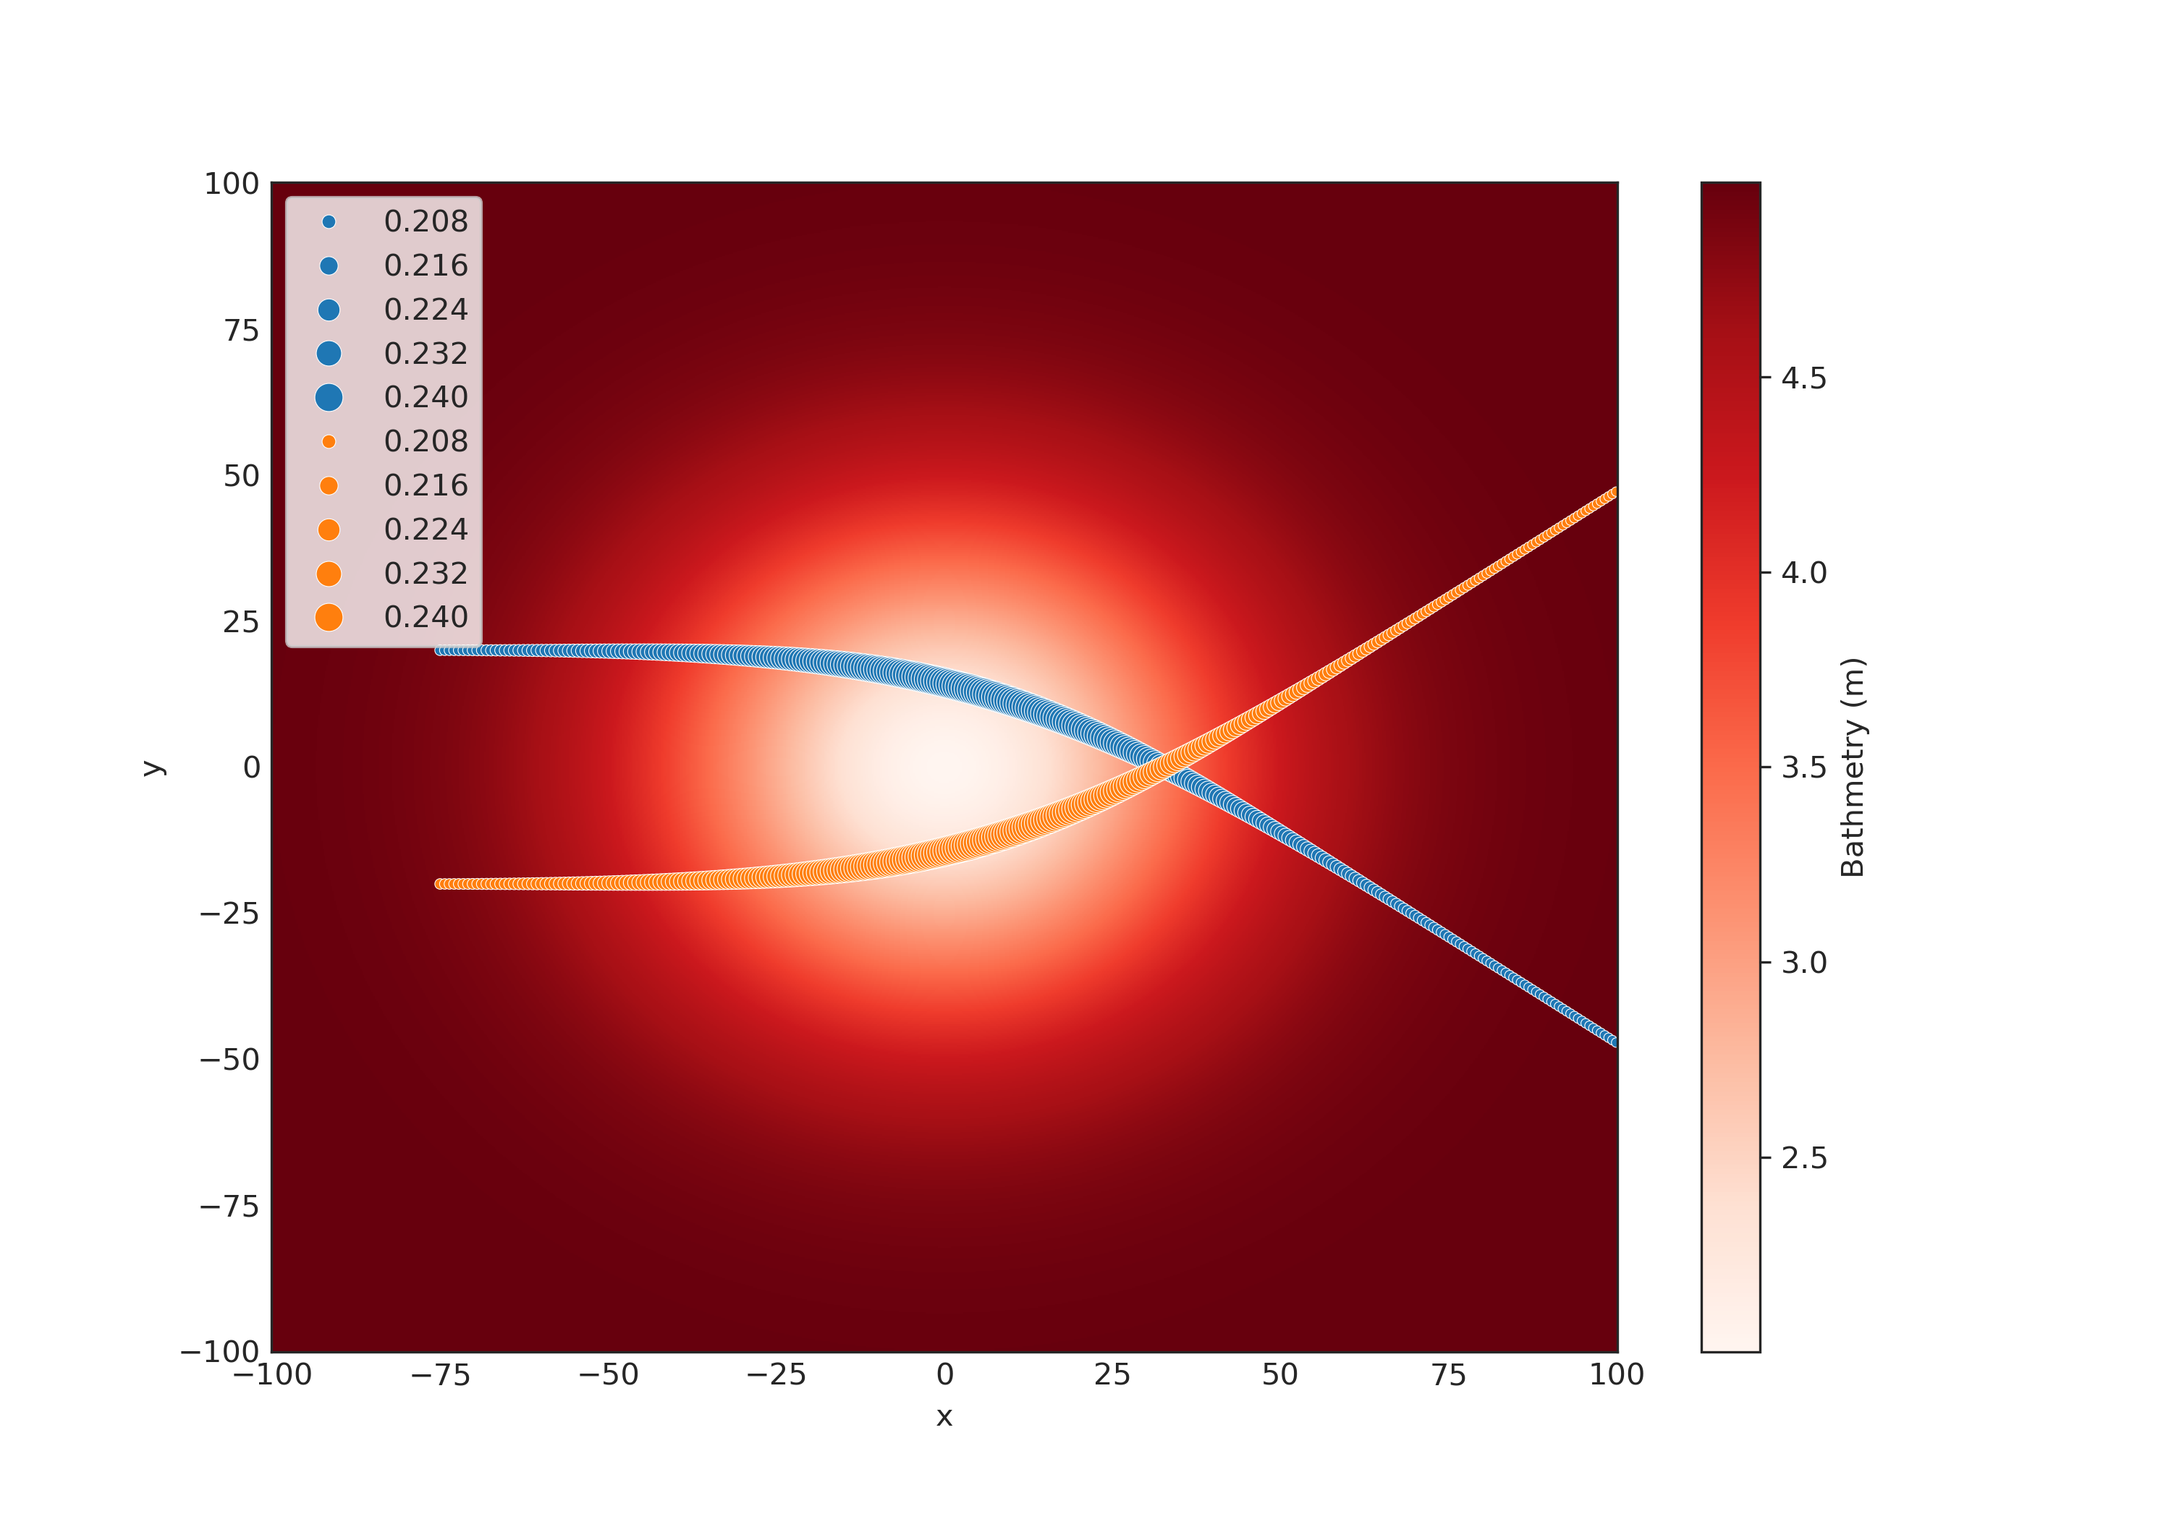
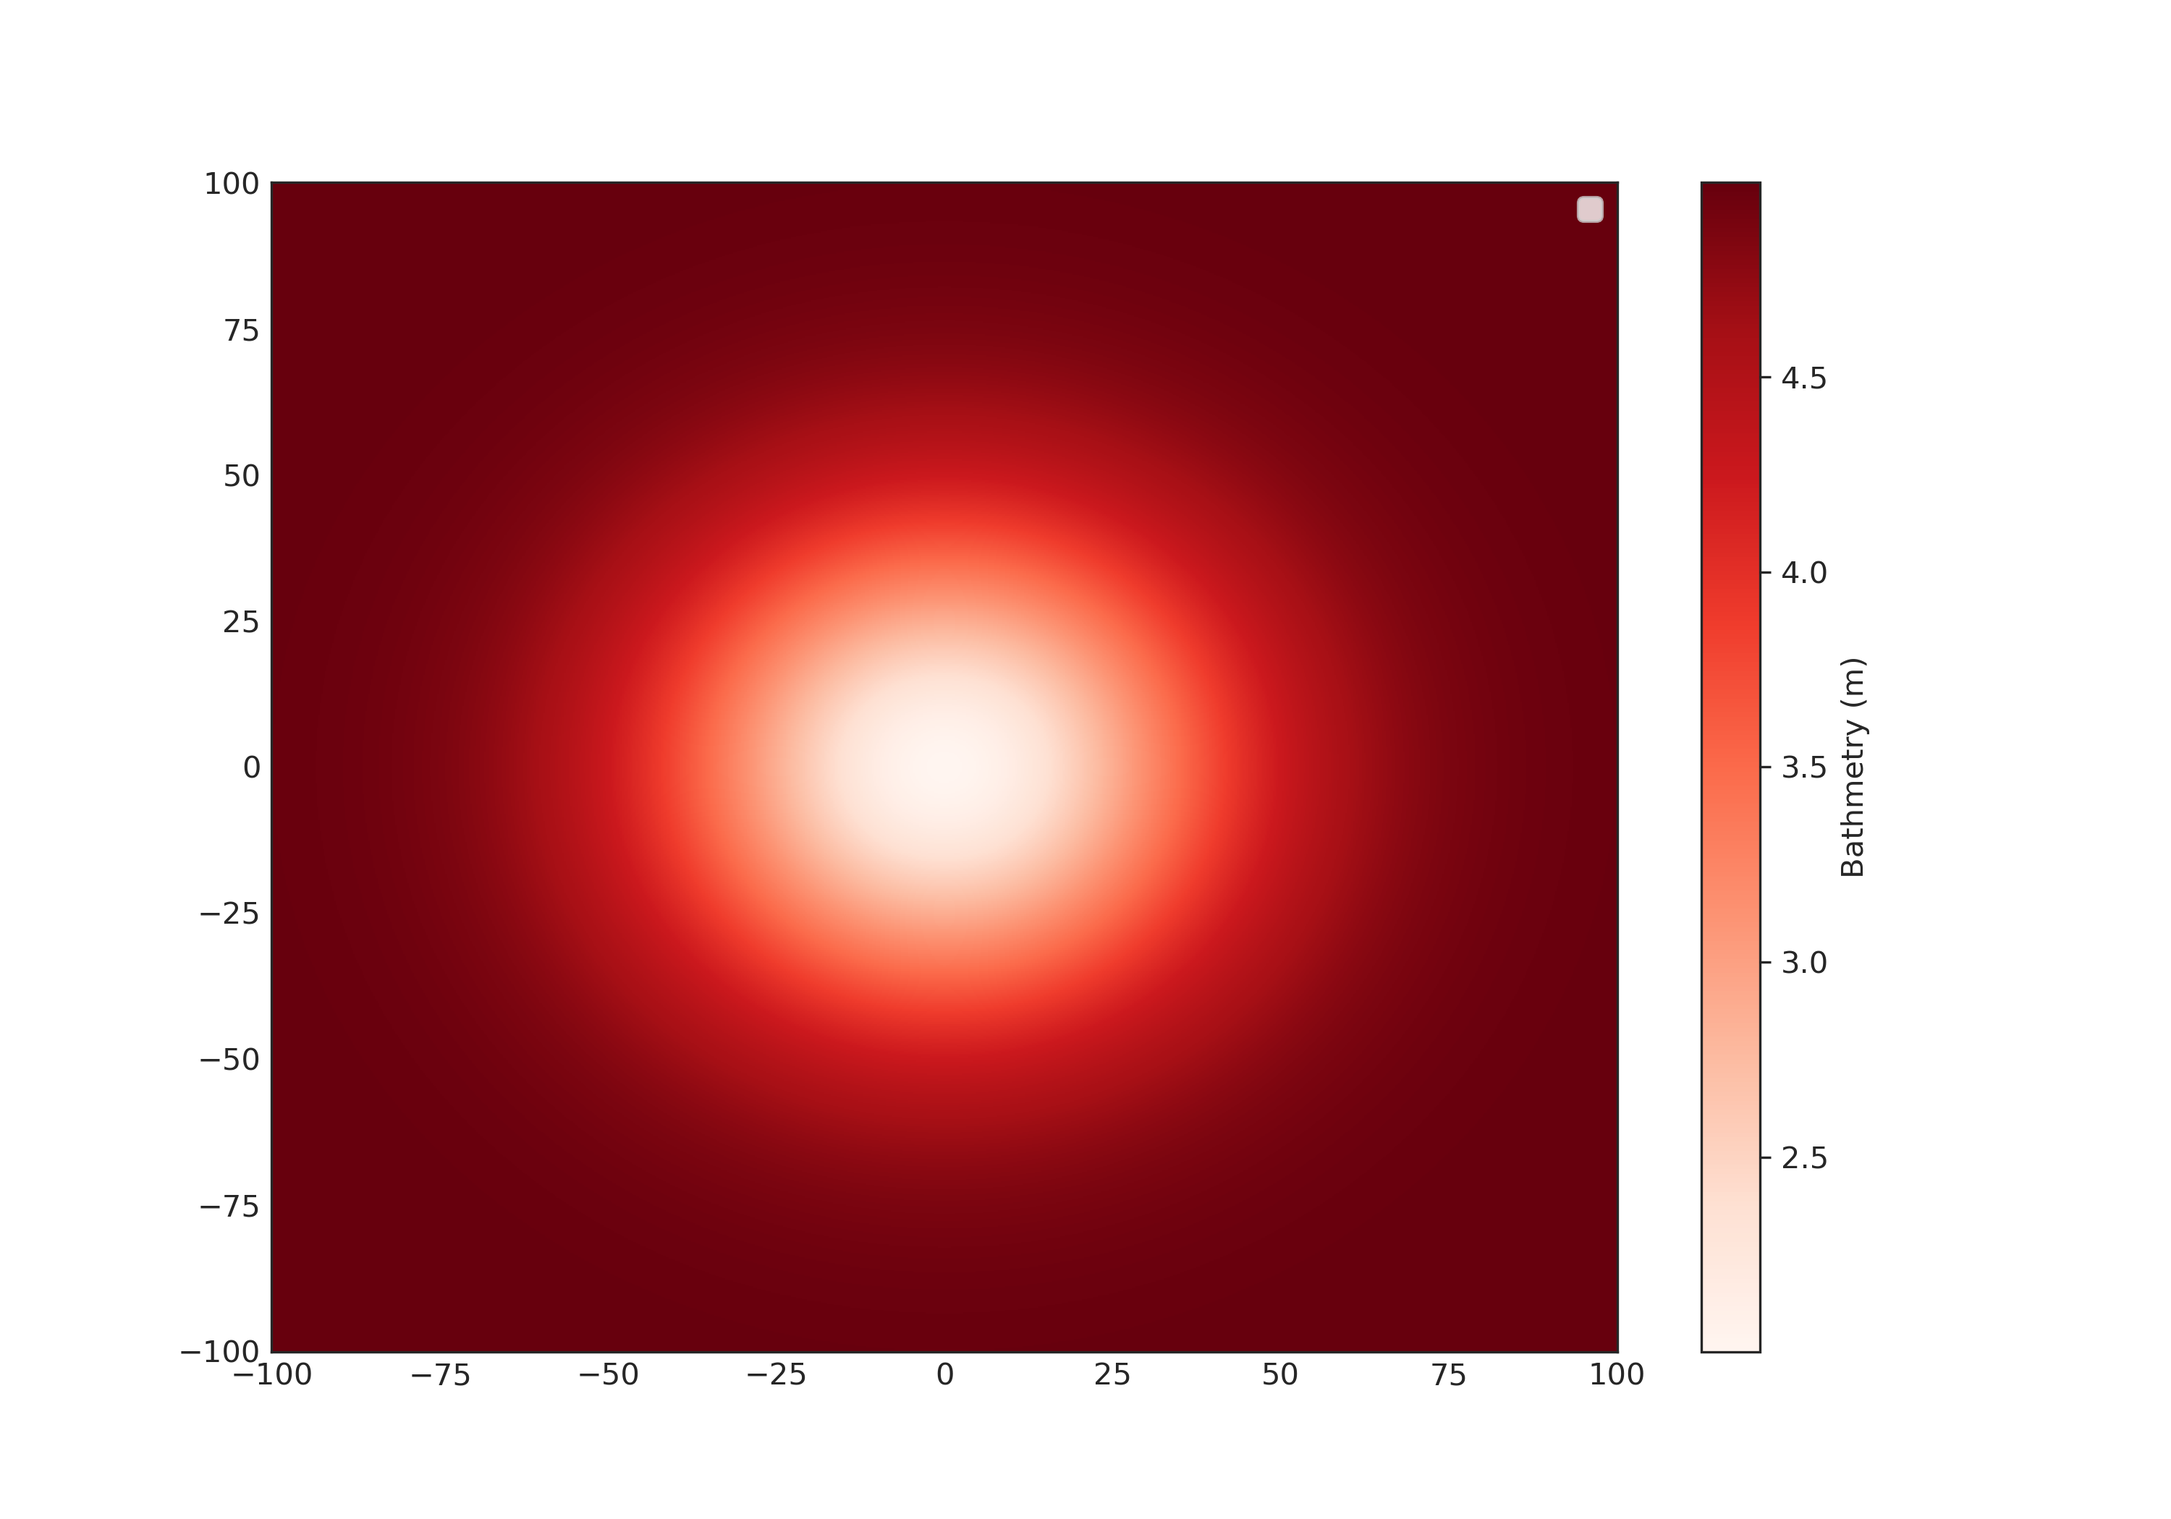
used a step method in the solve loop which reduces a lot of redundancy in the code. Tested that it works alright.

diff --git a/CartWaveSol.py b/CartWaveSol.py
@@ -18,7 +18,8 @@ class CartWaveSol:
                  E0, 
                  T, 
                  dt,
-                 dispersion=None
+                 dispersion=None,
+                 method='euler'
                 ):
         
         '''
@@ -70,6 +71,16 @@ class CartWaveSol:
             self.dispersion = self.sigma_full
         else:
             print("Dispersion must be 'shallow' or 'full'.")
+        
+        if method == 'euler':
+            self.step = self.euler_step
+        elif method == 'symplectic_euler':
+            self.step = self.symplectic_euler_step
+        elif method == 'adams-bashforth':
+            self.step = self.adams_bashforth_step
+        else:
+            raise UserWarning("The method must be one of 'euler', 'symplectic_euler', or 'adams-bashforth'.")
+
         # derived quantities
         self.ts = np.arange(0, T, dt)
         self.dx = x[1] - x[0]
@@ -136,91 +147,182 @@ class CartWaveSol:
         self.amps[0] =  self.a0
 
         for i in range(1, len(self.ks)):
-
-
-            # adding to dataframe
-            cur_row = {
-                'time': [self.ts[i-1]],
-                'x': [self.ray_xs[i-1]],
-                'y': [self.ray_ys[i-1]],
-                'k': [self.ks[i-1]],
-                'l': [self.ls[i-1]],
-                'E': [self.energies[i-1]],
-                'A': [self.amps[i-1]]
-                }
-            df_row = pd.DataFrame(cur_row)
-            self.df = pd.concat([self.df, df_row], axis=0, ignore_index=True)
-
-            k = self.ks[i-1]
-            l = self.ls[i-1]
+            # Check if wavefront is out of or close to the domain
             x = self.ray_xs[i-1]
             y = self.ray_ys[i-1]
-            E = self.energies[i-1]
-
-            dk = 1e-6 * k if k != 0 else 1e-6
-            dl = 1e-6 * l if l != 0 else 1e-6
-
-
-            # calculate depth based on previous coordinates
-            try:
-                d = self.bathymetry_interpolate((x, y))
-            except:
-                warn("The wavefront may be out of the domain.")
-                return None
+            if self.bounds_check(x, y):
+                break
             
-            # evolve the ray position
-            xnow = x + self.dt * self.cg(k, l, d)[0]
-            ynow = y + self.dt * self.cg(k, l, d)[1]
-
+            # calculate bathymetry at current position
+            d = self.bathymetry_interpolate((x, y))
+            
+            # perform the integration step
+            # if step does not work, break out of loop
+            # typically happens in symplectic method when wavefront
+            # runs out of the domain
+            try:
+                xnow, ynow, know, lnow, Enow = self.step(i)
+            except:
+                break
+            
+            # record current step output
             self.ray_xs[i] = xnow
             self.ray_ys[i] = ynow
-
-            # if we want to use updated positions to update wave vector
-            if symp:
-                x = xnow
-                y = ynow
-
-            # calculate the horizontal derivative of the dispersion relation
-            try:
-                sigma_x = (self.dispersion(k, l, self.bathymetry_interpolate((x + self.dx, y))) - self.dispersion(k, l, self.bathymetry_interpolate((x - self.dx, y)))) / (2 * self.dx)
-                sigma_y = (self.dispersion(k, l, self.bathymetry_interpolate((x, y + self.dy))) - self.dispersion(k, l, self.bathymetry_interpolate((x, y - self.dy)))) / (2 * self.dy)
-            
-            except:
-                warn("The wavefront may be out of the domain.")
-                return None
-
-            # evolve the wave numbers
-            know = k - sigma_x * self.dt
-            lnow = l - sigma_y * self.dt
             self.ks[i] = know
             self.ls[i] = lnow
-
-            # if we want to use updated wave vector and position to update the energy
-            if symp:
-                k = know
-                l = lnow
-            # Recalculate the bathymetry for the energy/amplitude update
-            try:
-                dnow = self.bathymetry_interpolate((x, y))
-            except:
-                warn("The wavefront may be out of the domain.")
-                return None
+            self.energies[i] = Enow
+            amp_now = np.sqrt(2 * Enow) / (self.dispersion(know, lnow, d))
+            self.amps[i] = amp_now
+        
+        # collect everything in a dataframe at the end
+        # truncate dataframe to include points until break
+        self.df = pd.DataFrame({
+            'time': self.ts,
+            'x': self.ray_xs,
+            'y': self.ray_ys,
+            'k': self.ks,
+            'l': self.ls,
+            'E': self.energies,
+            'A': self.amps
+        }).iloc[:i-1] 
             
-            diff_x_cgx = (1 / (2 * self.dx)) * (
+        return None
+
+    def symplectic_euler_step(self, i):
+        '''
+        Performs one step of Euler's integration method
+        '''
+        x = self.ray_xs[i-1]
+        y = self.ray_ys[i-1]
+        k = self.ks[i-1]
+        l = self.ls[i-1]
+        E = self.energies[i-1]
+
+        # ray equation
+        # dx/dt = cg
+        d = self.bathymetry_interpolate((x, y))
+        x = x + self.dt * self.cg(k, l, d)[0]
+        y = y + self.dt * self.cg(k, l, d)[1]
+
+        # Check if wavefront is out of or close to the domain
+        if self.bounds_check(x, y):
+            return None
+
+        # wavenumber equation
+        # dk/dt = -grad(sigma)
+        sigma_x = (self.dispersion(k, l, self.bathymetry_interpolate((x + self.dx, y))) - self.dispersion(k, l, self.bathymetry_interpolate((x - self.dx, y)))) / (2 * self.dx)
+        sigma_y = (self.dispersion(k, l, self.bathymetry_interpolate((x, y + self.dy))) - self.dispersion(k, l, self.bathymetry_interpolate((x, y - self.dy)))) / (2 * self.dy)
+        k = k - sigma_x * self.dt
+        l = l - sigma_y * self.dt
+
+        # energy equation
+        # dE/dt = -E div(cg)
+        diff_x_cgx = (1 / (2 * self.dx)) * (
                 self.cg(k, l, self.bathymetry_interpolate((x + self.dx, y)))[0] - 
                 self.cg(k, l, self.bathymetry_interpolate((x - self.dx, y)))[0]
                 )
-            diff_y_cgy = (1 / (2 * self.dy)) * (
-                self.cg(k, l, self.bathymetry_interpolate((x, y + self.dy)))[1] - 
-                self.cg(k, l, self.bathymetry_interpolate((x, y - self.dy)))[1]
-                )
-            E_now = E - self.dt * E * (diff_x_cgx + diff_y_cgy)
-            self.energies[i] = E_now
+        diff_y_cgy = (1 / (2 * self.dy)) * (
+            self.cg(k, l, self.bathymetry_interpolate((x, y + self.dy)))[1] - 
+            self.cg(k, l, self.bathymetry_interpolate((x, y - self.dy)))[1]
+            )
+        E = E - self.dt * E * (diff_x_cgx + diff_y_cgy)
 
-            amp_now = np.sqrt(2 * E_now) / (self.dispersion(know, lnow, dnow))
-            self.amps[i] = amp_now
-            
-        return None
+        return x, y, k, l, E
+
+    def euler_step(self, i):
+        '''
+        Performs one step of Euler's integration method
+        '''
+        x = self.ray_xs[i-1]
+        y = self.ray_ys[i-1]
+        k = self.ks[i-1]
+        l = self.ls[i-1]
+        E = self.energies[i-1]
+
+        # ray equation
+        # dx/dt = cg
+        d = self.bathymetry_interpolate((x, y))
+        xnew = x + self.dt * self.cg(k, l, d)[0]
+        ynew = y + self.dt * self.cg(k, l, d)[1]
+
+        # wavenumber equation
+        # dk/dt = -grad(sigma)
+        sigma_x = (self.dispersion(k, l, self.bathymetry_interpolate((x + self.dx, y))) - self.dispersion(k, l, self.bathymetry_interpolate((x - self.dx, y)))) / (2 * self.dx)
+        sigma_y = (self.dispersion(k, l, self.bathymetry_interpolate((x, y + self.dy))) - self.dispersion(k, l, self.bathymetry_interpolate((x, y - self.dy)))) / (2 * self.dy)
+        knew = k - sigma_x * self.dt
+        lnew = l - sigma_y * self.dt
+
+        # energy equation
+        # dE/dt = -E div(cg)
+        diff_x_cgx = (1 / (2 * self.dx)) * (
+                self.cg(k, l, self.bathymetry_interpolate((x + self.dx, y)))[0] - 
+                self.cg(k, l, self.bathymetry_interpolate((x - self.dx, y)))[0]
+                )
+        diff_y_cgy = (1 / (2 * self.dy)) * (
+            self.cg(k, l, self.bathymetry_interpolate((x, y + self.dy)))[1] - 
+            self.cg(k, l, self.bathymetry_interpolate((x, y - self.dy)))[1]
+            )
+        Enew = E - self.dt * E * (diff_x_cgx + diff_y_cgy)
+
+        return xnew, ynew, knew, lnew, Enew
+    
+    def adams_bashforth_step(self, i):
+        '''
+        Performs one step of Adams-Bashforth 2
+        '''
+        x = self.ray_xs[i-1]
+        y = self.ray_ys[i-1]
+        k = self.ks[i-1]
+        l = self.ls[i-1]
+        E = self.energies[i-1]
+
+        x_prev = self.ray_xs[i-2]
+        y_prev = self.ray_ys[i-2]
+        k_prev = self.ks[i-2]
+        l_prev = self.ls[i-2]
+        E_prev = self.energies[i-2]
+
+        # ray equation
+        # dx/dt = cg
+        d = self.bathymetry_interpolate((x, y))
+        d_prev = self.bathymetry_interpolate((x_prev, y_prev))
+        xnew = x + (self.dt/2) * (3 * self.cg(k, l, d)[0] - self.cg(k_prev, l_prev, d_prev)[0])
+        ynew = y + (self.dt/2) * (3 * self.cg(k, l, d)[1] - self.cg(k_prev, l_prev, d_prev)[1])
+
+        # wavenumber equation
+        # dk/dt = -grad(sigma)
+        sigma_x = (self.dispersion(k, l, self.bathymetry_interpolate((x + self.dx, y))) - self.dispersion(k, l, self.bathymetry_interpolate((x - self.dx, y)))) / (2 * self.dx)
+        sigma_y = (self.dispersion(k, l, self.bathymetry_interpolate((x, y + self.dy))) - self.dispersion(k, l, self.bathymetry_interpolate((x, y - self.dy)))) / (2 * self.dy)
+        sigma_x_prev = (self.dispersion(k_prev, l_prev, self.bathymetry_interpolate((x_prev + self.dx, y_prev))) - self.dispersion(k_prev, l_prev, self.bathymetry_interpolate((x_prev - self.dx, y_prev)))) / (2 * self.dx)
+        sigma_y_prev = (self.dispersion(k_prev, l_prev, self.bathymetry_interpolate((x_prev, y_prev + self.dy))) - self.dispersion(k_prev, l_prev, self.bathymetry_interpolate((x_prev, y_prev - self.dy)))) / (2 * self.dy)
+        knew = k - (self.dt/2) * (3 * sigma_x  - sigma_x_prev)
+        lnew = l - (self.dt/2) * (3 * sigma_y - sigma_y_prev)
+
+        # energy equation
+        # dE/dt = -E div(cg)
+        diff_x_cgx = (1 / (2 * self.dx)) * (
+                self.cg(k, l, self.bathymetry_interpolate((x + self.dx, y)))[0] - 
+                self.cg(k, l, self.bathymetry_interpolate((x - self.dx, y)))[0]
+                )
+        diff_y_cgy = (1 / (2 * self.dy)) * (
+            self.cg(k, l, self.bathymetry_interpolate((x, y + self.dy)))[1] - 
+            self.cg(k, l, self.bathymetry_interpolate((x, y - self.dy)))[1]
+            )
+        diff_x_cgx_prev = (1 / (2 * self.dx)) * (
+                self.cg(k_prev, l_prev, self.bathymetry_interpolate((x_prev + self.dx, y_prev)))[0] - 
+                self.cg(k_prev, l_prev, self.bathymetry_interpolate((x_prev - self.dx, y_prev)))[0]
+                )
+        diff_y_cgy_prev = (1 / (2 * self.dy)) * (
+            self.cg(k_prev, l_prev, self.bathymetry_interpolate((x_prev, y_prev + self.dy)))[1] - 
+            self.cg(k_prev, l_prev, self.bathymetry_interpolate((x_prev, y_prev - self.dy)))[1]
+            )
+        Enew = E - (self.dt/2) * (
+            3 * E * (diff_x_cgx + diff_y_cgy) - 
+            E_prev * (diff_x_cgx_prev + diff_y_cgy_prev)
+        )
+        return xnew, ynew, knew, lnew, Enew
+
+
     
     def cg(self, k, l, d):
         '''
@@ -237,6 +339,32 @@ class CartWaveSol:
         sigma_l = (self.dispersion(k, l + dl, d) - self.dispersion(k, l - dl, d)) / (2 * dl)
         return np.array([sigma_k, sigma_l])
         # return np.array([cg_k, cg_l])
+    
+    def bounds_check(self, x, y):
+        if x < self.x_min or x > self.x_max or y < self.y_min or y > self.y_max:
+            warn("The wavefront has moved out of the domain.")
+            self.df = pd.DataFrame({
+                'time': self.ts,
+                'x': self.ray_xs,
+                'y': self.ray_ys,
+                'k': self.ks,
+                'l': self.ls,
+                'E': self.energies,
+                'A': self.amps
+            })
+            return True
+        elif x - self.dx < self.x_min or x + self.dx > self.x_max or y - self.dy < self.y_min or y + self.dy > self.y_max:
+            warn("The wavefront is close to the edge of the domain; numerical errors may occur.")
+            self.df = pd.DataFrame({
+                'time': self.ts,
+                'x': self.ray_xs,
+                'y': self.ray_ys,
+                'k': self.ks,
+                'l': self.ls,
+                'E': self.energies,
+                'A': self.amps
+            })
+            return True
 
 
 

diff --git a/waves_over_bathymetry.py b/waves_over_bathymetry.py
@@ -8,8 +8,8 @@ sns.set_style('white')
 # %matplotlib widget
 
 #%% set up bathymetry
-x = np.linspace(-100, 100, 1000)
-y = np.linspace(-100, 100, 1000)
+x = np.linspace(-100, 100, 1000, endpoint=True)
+y = np.linspace(-100, 100, 1000, endpoint=True)
 xx, yy = np.meshgrid(x, y)
 
 def shoal(x, start, stop, initial_depth, final_depth):
@@ -25,33 +25,39 @@ def gaussian_ridge(xx, yy, mean_x, mean_y, sigma_x, sigma_y, mean_depth, ridge_h
 
 # bathymetry = shoal(xx, 0, 30, 20, 0)
 bathymetry = gaussian_ridge(xx, yy, 0, 0, 30, 30, 5, 3)
+dt = 1
+T = 100
+E0 = 1
+k0 = (0.1, 0)
 
 wave_sol = CartWaveSol(
-    init_k=(1, 0),
+    init_k=k0,
     x = x,
     y = y,
     bathymetry = bathymetry,
     x0 = -75,
     y0 = 20,
-    E0 = 1,
-    T = 100,
-    dt=0.1,
-    vegetation=None
+    E0 = E0,
+    T = T,
+    dt=dt,
+    vegetation=None,
+    method='euler'
 )
 
 wave_sol.solve()
 
 wave_sol2 = CartWaveSol(
-    init_k=(1, 0),
+    init_k=k0,
     x = x,
     y = y,
     bathymetry = bathymetry,
     x0 = -75,
     y0 = -20,
-    E0 = 1,
-    T = 100,
-    dt=0.1,
-    vegetation=None
+    E0 = E0,
+    T = T,
+    dt=dt,
+    vegetation=None,
+    method='adams-bashforth'
 )
 
 wave_sol2.solve()
@@ -87,6 +93,6 @@ ax.xaxis.set_tick_params(direction='in')
 ax.yaxis.set_tick_params(direction='in')
 # ax.set_xlim(25, 50)
 # ax.set_ylim(-10, 10)
-plt.savefig(r'./figures/wave_over_shoal_center.png', dpi=300)
+# plt.savefig(r'./figures/wave_over_shoal_center.png', dpi=300)
 plt.show()
 # %%
